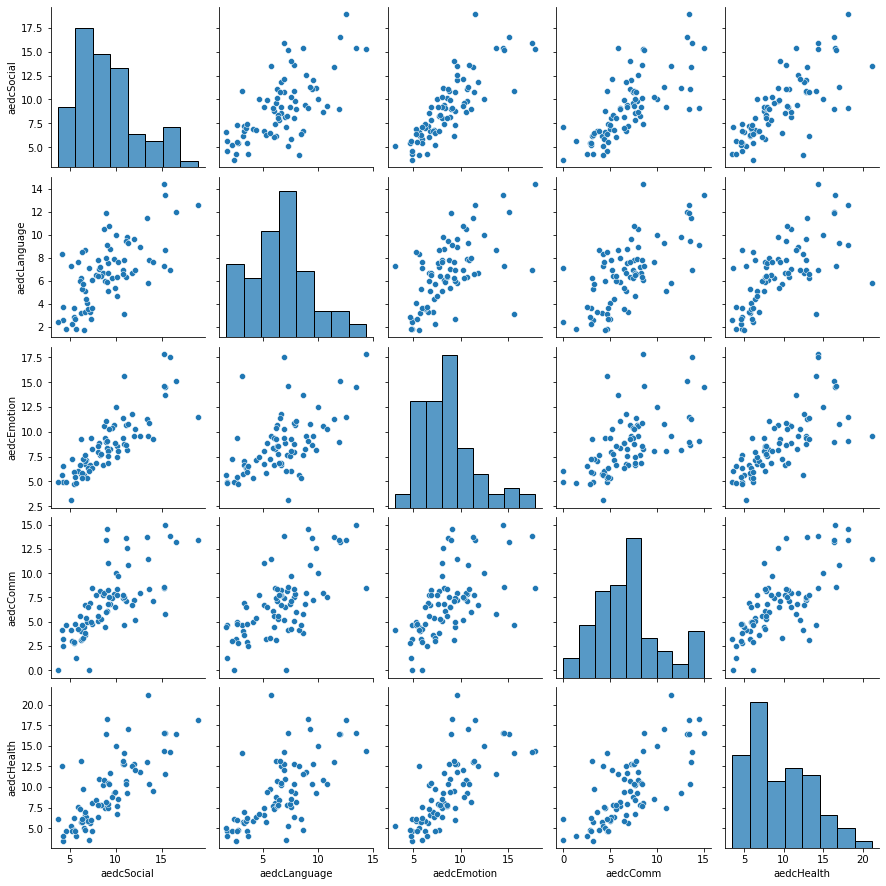
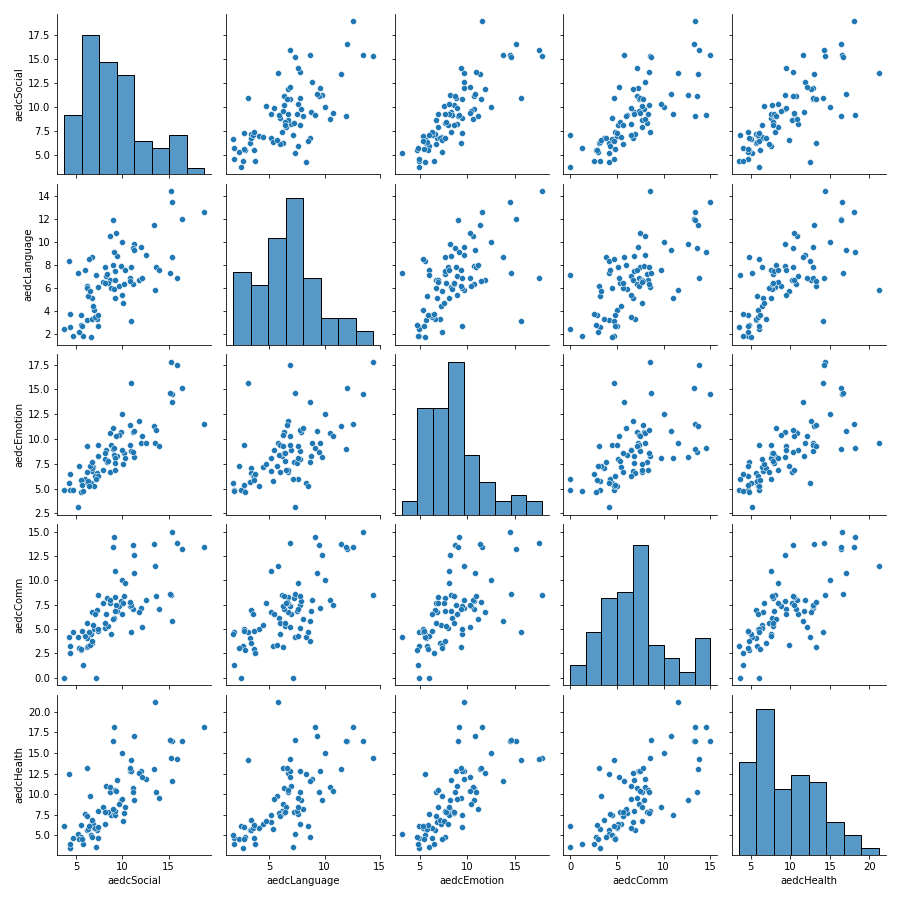
plots script

diff --git a/visualisations.py b/visualisations.py
@@ -1,0 +1,56 @@
+# -*- coding: utf-8 -*-
+
+
+import pandas as pd
+import matplotlib.pyplot as plt
+import seaborn as sns
+import geopandas as gpd
+from sklearn.feature_selection import mutual_info_regression as mi_reg
+from pandas.plotting import parallel_coordinates
+
+dhsData = pd.read_csv("./wrangled/DHS_data.csv", index_col = "DHS AREA")
+lgaData = pd.read_csv("./wrangled/LGA_data.csv", index_col = "LGA")
+vicLGA = gpd.read_file('./shapefiles/VIC_LGA_POLYGON_SHP.shp')
+vicDHS = gpd.read_file('./shapefiles/VIC_DHS_POLYGON_SHP.shp')
+
+for i in lgaData.columns[1:]:
+    plt.figure()
+    plt.scatter(lgaData[i], lgaData['Depression Rate'])
+    plt.ylabel('Depression Rate')
+    plt.xlabel(i)
+    plt.savefig('./plots/depression/'+i+'.png')
+
+# aedc pair plots
+plt.figure(figsize = (20,20))
+sns.pairplot(lgaData[['aedcSocial', 'aedcLanguage', 'aedcEmotion', 'aedcComm', 'aedcHealth']])
+plt.savefig('./plots/aedc.png')
+
+# vic depression map
+plt.figure()
+lgaData.index = lgaData.index.str.upper()
+plottingLGA = vicLGA.merge(lgaData[['Depression Rate']], left_on = 'ABB_NAME', right_on = 'LGA')
+plt.figure(figsize = (20,20))
+plottingLGA.plot(column = 'Depression Rate', legend=True,cmap='OrRd')
+# removes tick marks
+plt.xticks([])
+plt.yticks([])
+plt.box(False)
+plt.savefig('./plots/depressionMap.png')
+
+# correlation heatmap
+for_corr = lgaData.copy()
+for_corr = for_corr.dropna()
+cf = for_corr.corr(method='pearson')
+plt.figure()
+sns.heatmap(cf)
+plt.savefig('./plots/correlationMap.png')
+
+# parallel coordinate plots
+normalized_LGA=(lgaData-lgaData.min())/(lgaData.max()-lgaData.min())
+normalized_LGA['bins'] = pd.cut(normalized_LGA['Depression Rate'], 3, labels=["low", "medium", "high"])
+plt.figure(figsize=(20,20))
+parallel_coordinates(normalized_LGA, 'bins',
+                     alpha=0.2, color=["b","y",'r'])
+plt.xticks(rotation=45)
+plt.show()
+plt.savefig('./plots/parallel.png')
